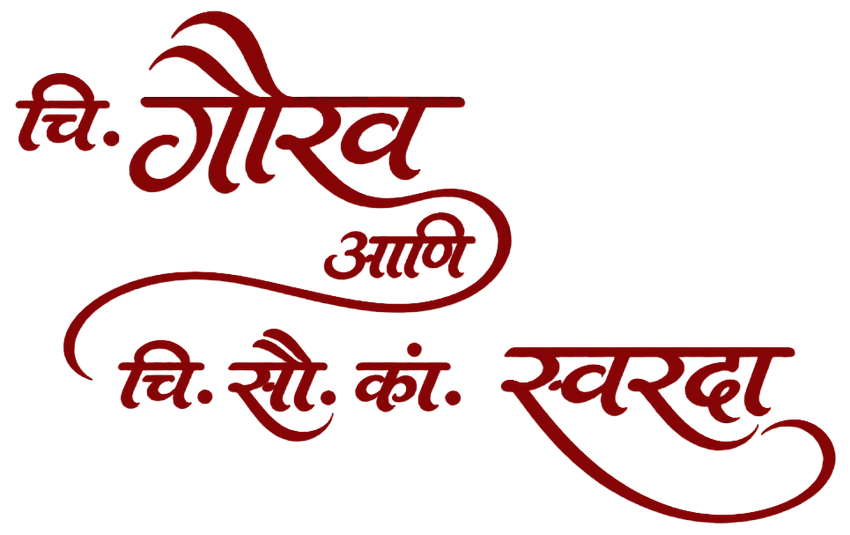
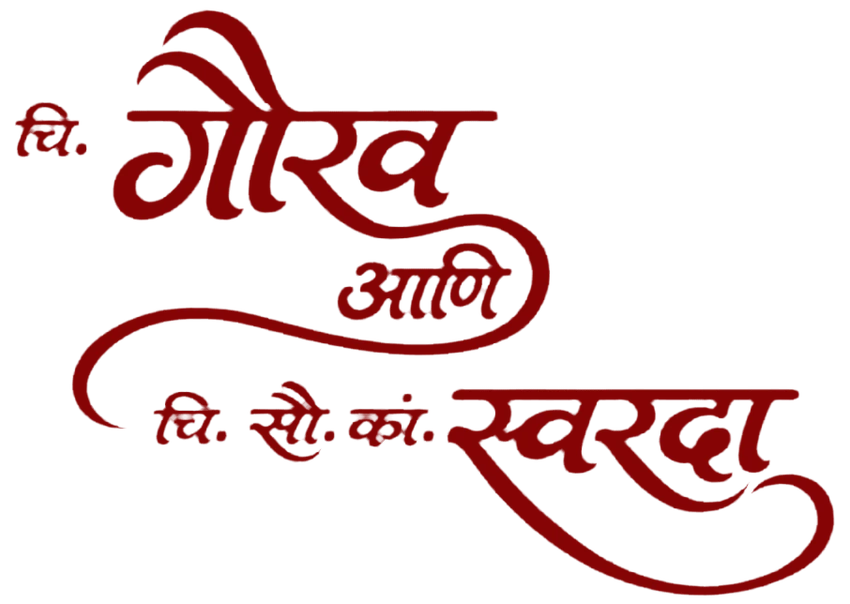
small updates

Changed region(s): [[0.0, 0.0, 1.0, 0.9869]]

diff --git a/css/style.css b/css/style.css
@@ -57,7 +57,7 @@ button { cursor: pointer; border: none; background: none; font-family: var(--ser
 
 .cover-names-wrap { display: flex; flex-direction: column; align-items: center; justify-content: center; margin-top: clamp(0.55rem, 1.8vh, 1.2rem); margin-bottom: clamp(0.45rem, 2.0cqw, 1.0rem); padding: 0.2rem 0; position: relative; width: 100%; }
 .cover-calligraphy-picture { display: flex; justify-content: center; align-items: center; width: 100%; }
-.cover-calligraphy-img { width: 100%; max-width: clamp(185px, 58cqw, 255px); max-height: min(21vh, 160px); height: auto; aspect-ratio: 850 / 535; object-fit: contain; display: block; margin: 0 auto; transform: none; filter: drop-shadow(0 2px 5px rgba(99, 22, 34, 0.16)); user-select: none; -webkit-user-select: none; pointer-events: none; }
+.cover-calligraphy-img { width: 100%; max-width: clamp(185px, 58cqw, 255px); max-height: min(21vh, 160px); height: auto; aspect-ratio: 850 / 604; object-fit: contain; display: block; margin: 0 auto; transform: none; filter: drop-shadow(0 2px 5px rgba(99, 22, 34, 0.16)); user-select: none; -webkit-user-select: none; pointer-events: none; }
 .sr-only { position: absolute; width: 1px; height: 1px; padding: 0; margin: -1px; overflow: hidden; clip: rect(0, 0, 0, 0); white-space: nowrap; border: 0; }
 
 .script-title-name { font-family: 'Italianno', cursive; font-size: clamp(3.4rem, 14.5cqw, 5.4rem); color: #16221E; font-weight: 400; line-height: 0.96; letter-spacing: 0.02em; margin: 0; text-align: center; text-shadow: 0 1px 2px rgba(255, 255, 255, 0.95); display: block; }
@@ -152,7 +152,7 @@ button { cursor: pointer; border: none; background: none; font-family: var(--ser
 .hero-names .names-bride { display: block; text-align: center; }
 .hero-calligraphy-wrap { width: 100%; display: flex; flex-direction: column; align-items: center; justify-content: center; margin: 0.35rem 0 0.55rem; position: relative; }
 .hero-calligraphy-picture { display: flex; justify-content: center; align-items: center; width: 100%; }
-.hero-calligraphy-img { width: 100%; max-width: clamp(190px, 60cqw, 255px); height: auto; aspect-ratio: 850 / 527; display: block; margin: 0 auto; filter: drop-shadow(0 2px 5px rgba(99, 22, 34, 0.16)); user-select: none; -webkit-user-select: none; pointer-events: none; }
+.hero-calligraphy-img { width: 100%; max-width: clamp(190px, 60cqw, 255px); height: auto; aspect-ratio: 850 / 600; display: block; margin: 0 auto; filter: drop-shadow(0 2px 5px rgba(99, 22, 34, 0.16)); user-select: none; -webkit-user-select: none; pointer-events: none; }
 
 .hero-line { max-width: 32ch; text-wrap: balance; font-style: italic; font-size: clamp(1.02rem, 4.0cqw, 1.28rem); color: #2F1E16; font-weight: 500; line-height: 1.45; margin: 0.35rem 0; text-shadow: 0 1px 1px rgba(255, 255, 255, 0.85); }
 .hero-line.devanagari { font-family: 'Noto Serif Devanagari', var(--deva); font-style: normal; font-size: clamp(1.20rem, 4.6cqw, 1.45rem); color: #381A1E; font-weight: 600; line-height: 1.7; max-width: 36ch; margin: 1rem 0; }
@@ -250,9 +250,9 @@ button { cursor: pointer; border: none; background: none; font-family: var(--ser
   .date-clean-text.devanagari { font-size: clamp(0.94rem, 3.6vw, 1.08rem) !important; letter-spacing: 0.03em !important; margin-left: 0 !important; font-weight: 700 !important; }
   .enter-ceremony-btn { bottom: clamp(1.8rem, 5.2vh, 2.6rem) !important; padding: 0.60rem 1.75rem 0.56rem !important; display: inline-flex !important; align-items: center !important; justify-content: center !important; text-align: center !important; line-height: 1 !important; font-size: clamp(0.96rem, 3.6vw, 1.08rem) !important; white-space: nowrap !important; letter-spacing: 0.02em !important; }
   .stage-landing { justify-content: center !important; padding: 0.25rem 0.8rem 1.4rem !important; }
-  .ganpati-icon { width: 60px !important; margin-bottom: 0.06rem !important; }
+  .ganpati-icon { width: clamp(92px, 25vw, 110px) !important; margin-bottom: 0.06rem !important; }
   .ganpati-title { height: 1.35em !important; font-size: clamp(0.92rem, 3.4vw, 1.05rem) !important; margin-bottom: 0.08rem !important; }
-  .lotus-divider { width: 100px !important; }
+  .lotus-divider { width: clamp(105px, 29vw, 125px) !important; }
   .shloka-box { height: auto !important; min-height: 2.5rem !important; margin: 0.08rem auto 0.15rem !important; }
   .shloka-text { height: 1.45em !important; font-size: clamp(0.82rem, 3.2vw, 0.94rem) !important; line-height: 1.5 !important; white-space: nowrap !important; }
   .couple-card { width: clamp(270px, 84vw, 360px) !important; max-width: 92% !important; max-height: clamp(330px, 53vh, 450px) !important; margin: 0.55rem auto 0 !important; transform: translateY(clamp(4px, 1.2vh, 8px)) !important; overflow: visible !important; }
@@ -260,8 +260,8 @@ button { cursor: pointer; border: none; background: none; font-family: var(--ser
   .scroll-cue-btn { bottom: 0.45rem !important; font-size: clamp(0.82rem, 3.2vw, 0.92rem) !important; white-space: nowrap !important; letter-spacing: 0.02em !important; z-index: 15 !important; text-shadow: 0 1px 3px rgba(255, 255, 255, 0.95), 0 0 10px rgba(255, 255, 255, 0.9) !important; }
   .invitation-reel-inner { padding-left: 0.65rem !important; padding-right: 0.65rem !important; }
   .crest-shree { font-size: clamp(1.22rem, 4.8vw, 1.45rem) !important; font-weight: 800 !important; letter-spacing: 0 !important; margin: 0.2rem 0 0.1rem !important; }
-  .invitation-ganpati { width: clamp(84px, 24vw, 110px) !important; }
-  .invitation-lotus { width: clamp(110px, 32vw, 140px) !important; }
+  .invitation-ganpati { width: clamp(102px, 28vw, 130px) !important; }
+  .invitation-lotus { width: clamp(120px, 35vw, 155px) !important; }
   .hero-eyebrow.devanagari { font-size: clamp(0.98rem, 4.1vw, 1.20rem) !important; font-weight: 700 !important; letter-spacing: -0.01em !important; line-height: 1.62 !important; width: 100% !important; max-width: 100% !important; }
   .hero-eyebrow.devanagari .eyebrow-line { display: block !important; white-space: nowrap !important; text-align: center !important; }
   .hero-calligraphy-wrap { margin: 0.25rem 0 0.45rem !important; }

diff --git a/index.html b/index.html
@@ -15,15 +15,13 @@
   <link rel="preconnect" href="https://fonts.googleapis.com">
   <link rel="preconnect" href="https://fonts.gstatic.com" crossorigin>
   <link rel="preconnect" href="https://ik.imagekit.io">
-  <link rel="preload" as="image" href="assets/couple-calligraphy.webp?v=16" type="image/webp" fetchpriority="high">
-  <link rel="preload" as="image" href="assets/couple-calligraphy-sec3.webp?v=16" type="image/webp">
+  <link rel="preload" as="image" href="assets/couple-calligraphy.webp?v=21" type="image/webp" fetchpriority="high">
   <link rel="preload" as="image" href="https://ik.imagekit.io/greenspire/invitation/main-bg.avif" fetchpriority="high">
   <link rel="preload" as="image" href="https://ik.imagekit.io/greenspire/invitation/ganpati-logo.avif">
-  <link rel="preload" as="image" href="assets/couple.webp?v=3" type="image/webp">
   <link
-    href="https://fonts.googleapis.com/css2?family=Cinzel:wght@400;600;700;800&family=Cormorant+Garamond:ital,wght@0,400;0,600;0,700;1,400&family=Great+Vibes&family=Italianno&family=Noto+Serif+Devanagari:wght@400;600;700;800;900&family=Tiro+Devanagari+Marathi:ital,wght@0,400;0,700;1,400&family=Yatra+One&display=block"
+    href="https://fonts.googleapis.com/css2?family=Cinzel:wght@400;600;700;800&family=Cormorant+Garamond:ital,wght@0,400;0,600;0,700;1,400&family=Great+Vibes&family=Italianno&family=Noto+Serif+Devanagari:wght@400;600;700;800;900&family=Tiro+Devanagari+Marathi:ital,wght@0,400;0,700;1,400&family=Yatra+One&display=swap"
     rel="stylesheet">
-  <link rel="stylesheet" href="css/style.css?v=182">
+  <link rel="stylesheet" href="css/style.css?v=185">
 
   <style>
     .stage-cover:not(.is-revealed) .cover-content,
@@ -52,8 +50,8 @@
 
             <div class="cover-names-wrap" role="heading" aria-level="1">
               <picture class="cover-calligraphy-picture">
-                <source srcset="assets/couple-calligraphy.webp?v=16" type="image/webp">
-                <img src="assets/couple-calligraphy.png?v=16" alt="चि. गौरव आणि चि. सौ. कां. स्वरदा" class="cover-calligraphy-img" width="850" height="535" fetchpriority="high" decoding="async">
+                <source srcset="assets/couple-calligraphy.webp?v=21" type="image/webp">
+                <img src="assets/couple-calligraphy.png?v=21" alt="चि. गौरव आणि चि. सौ. कां. स्वरदा" class="cover-calligraphy-img" width="850" height="604" fetchpriority="high" decoding="async">
               </picture>
               <span class="sr-only">चि. गौरव आणि चि. सौ. कां. स्वरदा</span>
             </div>
@@ -155,8 +153,8 @@
               </p>
               <div class="hero-names hero-calligraphy-wrap" role="heading" aria-level="2">
                 <picture class="hero-calligraphy-picture">
-                  <source srcset="assets/couple-calligraphy-sec3.webp?v=16" type="image/webp">
-                  <img src="assets/couple-calligraphy-sec3.png?v=16" alt="चि. गौरव आणि चि. सौ. कां. स्वरदा" class="hero-calligraphy-img" width="850" height="527" loading="lazy" decoding="async">
+                  <source srcset="assets/couple-calligraphy-sec3.webp?v=21" type="image/webp">
+                  <img src="assets/couple-calligraphy-sec3.png?v=21" alt="चि. गौरव आणि चि. सौ. कां. स्वरदा" class="hero-calligraphy-img" width="850" height="600" loading="lazy" decoding="async">
                 </picture>
                 <span class="sr-only">चि. गौरव आणि चि. सौ. कां. स्वरदा</span>
               </div>
@@ -314,7 +312,7 @@
   </button>
 
   <script src="js/config.js"></script>
-  <script src="js/app.js?v=142"></script>
+  <script src="js/app.js?v=145"></script>
 </body>
 
 </html>

diff --git a/js/app.js b/js/app.js
@@ -36,9 +36,7 @@
 
   var weddingMusic = document.getElementById('weddingMusic');
 
-  if (weddingMusic && weddingMusic.load) {
-    try { weddingMusic.load(); } catch (e) {}
-  }
+  // Music will be initialized on first user gesture to preserve initial loading speed
 
   var coverDateSection = document.getElementById('coverDateSection');
   var isCoverRevealed = false;
@@ -67,8 +65,8 @@
         }
       }
 
-      setTimeout(revealCoverDate, 550);
-    }, 120);
+      setTimeout(revealCoverDate, 280);
+    }, 30);
   }
 
   function waitForCoverAssetsAndFonts() {
@@ -98,14 +96,16 @@
 
     promises.push(new Promise(function (resolve) {
       var calImg = new Image();
+      if (calImg.complete) { resolve(); return; }
       calImg.onload = resolve;
       calImg.onerror = resolve;
-      calImg.src = 'assets/couple-calligraphy.webp?v=6';
+      calImg.src = 'assets/couple-calligraphy.webp?v=21';
+      if (calImg.complete) { resolve(); }
     }));
 
     Promise.all(promises).then(revealCoverSection).catch(revealCoverSection);
 
-    setTimeout(revealCoverSection, 2500);
+    setTimeout(revealCoverSection, 400);
   }
 
   waitForCoverAssetsAndFonts();
